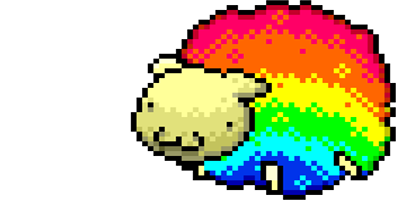
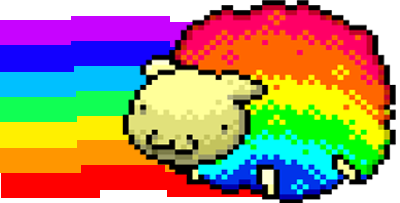
Added rainbow to sheep

diff --git a/empty/phaser/main.js b/empty/phaser/main.js
@@ -3,9 +3,9 @@
 var mainState = {
   preload: function() {
     // Load the sprites
-    game.load.image('nyan', 'assets/NyanCat.png')
+    game.load.image('nyan', 'assets/p2sheepsheep.png')
     game.load.image('bird', 'assets/bird.png')
-    game.load.image('bullet', 'assets/bird.png')
+    game.load.image('bullet', 'assets/bullet.png')
     game.load.image('pipe', 'assets/pipe.png')
 
     //load jump sound
